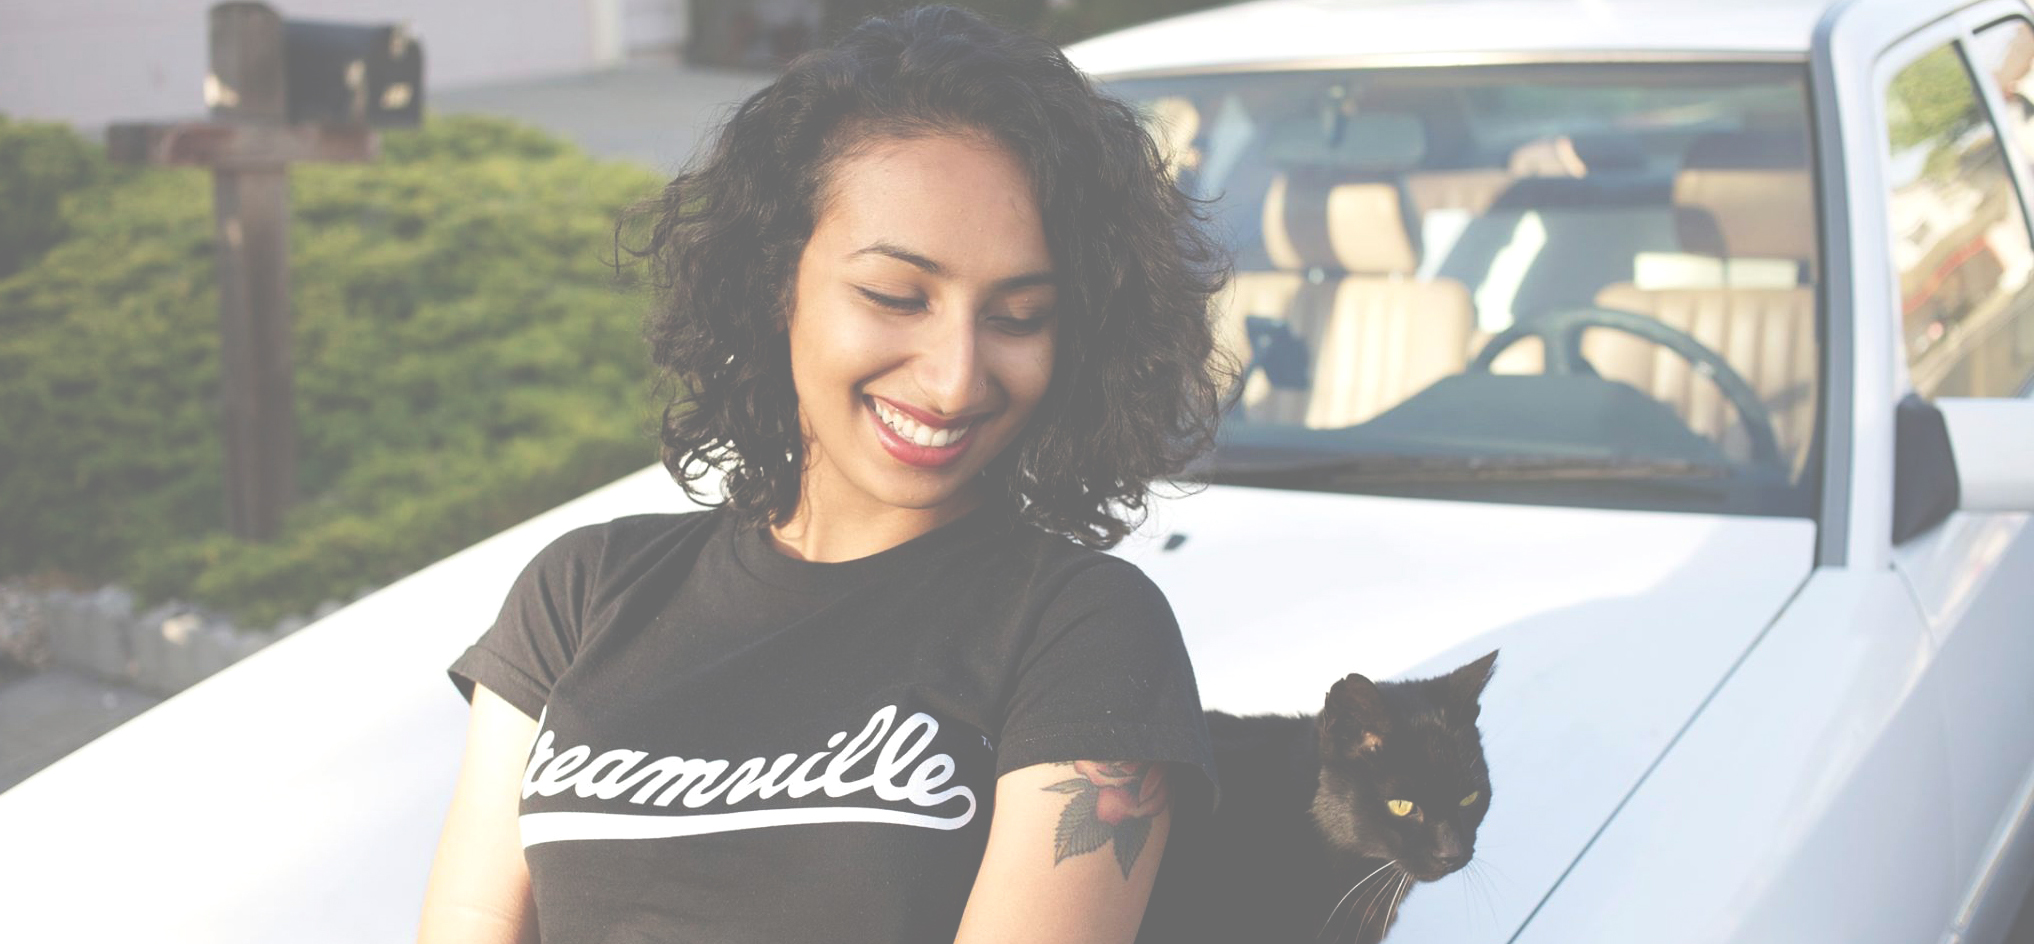
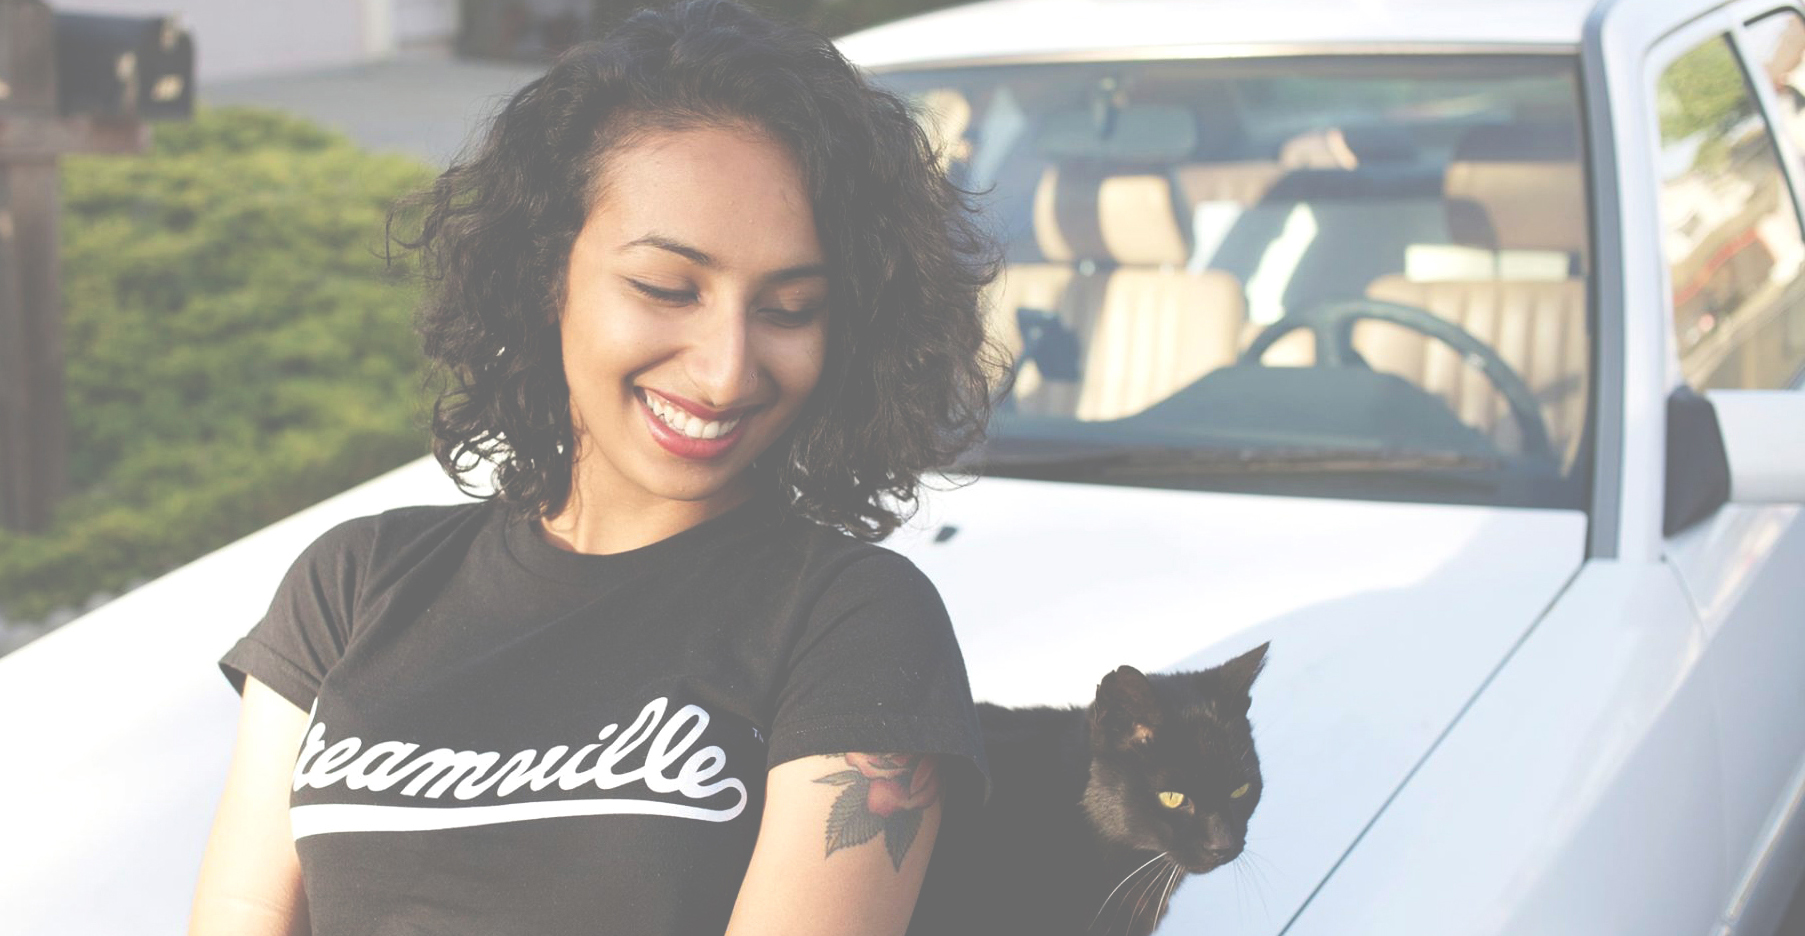
Changed front-page layout, fixed mobile view

diff --git a/assets/css/style.css b/assets/css/style.css
@@ -43,14 +43,10 @@ h1 {
 .navigation {
   position: fixed;
   margin: 0 auto;
-  width: 100%;
+  width: 97%;
   height: 50px;
   text-align: center;
-  padding: 7px 0px;
   z-index: 5;
-  background-color: #fff;
-  border-bottom: 2px rgba(170, 170, 170, 0.12) solid;
-  border-right: 2px rgba(170, 170, 170, 0.12) solid;
 }
 
 .navigation a {
@@ -61,10 +57,12 @@ h1 {
   text-transform: uppercase;
   border-radius: 2px;
   padding: 3px 30px; 
-  background-color: #e52f26;
+  background-color: #e52f26; 
   display: inline-block;
   overflow: hidden;
+  margin-right: 5px;
 }
+
 
 
 .navigation a:hover {
@@ -109,14 +107,29 @@ h1 {
 
 
 #name {
-  width: 250px;
+  width: 100%;
   font-size: 40px;
+  float: left;
+  display: inline-block;
+  text-align: left;
   color: rgba(0, 0, 0, 0.65);
   font-family: 'Bangers', cursive;
-  float: left;
-  position: fixed;
-  top: 20px;
-  left: 90px;
+  position: relative;
+  margin: auto;
+  margin-bottom: 20px;
+  
+}
+
+#mobile-name {
+  width: 100%;
+  font-size: 40px;
+  display: inline-block;
+  color: rgba(0, 0, 0, 0.65);
+  text-align: center;
+  font-family: 'Bangers', cursive;
+  position: relative;
+  top: 30;
+  display: none;
 }
 
 
@@ -130,18 +143,76 @@ h1 {
 
 
 .front-page-header {
-  background-image: -webkit-linear-gradient(top, rgba(255,255,255,.6), rgba(255,255,255,.2)), url("images/website-photo.jpg");
+  background-image: -webkit-linear-gradient(top, rgba(255,255,255,.2), rgba(255,255,255,.2)), url("images/website-photo.jpg");
   background-position: center;
   background-repeat:  no-repeat;
-  position: relative;
+  position: fixed;
   margin: 0 auto;
-  background-size: 100%;
   width: 100%;
-  height: 680px;
+  height: 100%;
+}
+
+.intro-text {
+  width: 400px;
+  position: relative;
+  font-size: 25px;
+  line-height: 1.2;
+  top: 150;
+  left: 60%;
+  text-align: left;
+  margin-bottom: 30px;
+
+}
+
+.mobile-intro-text {
+  width: 97%;
+  position: relative;
+  margin: auto;
+  font-size: 27px;
+  top: 100;
+  line-height: 1.3;
+  text-align: center;
+  padding: 5px;
+  display: none;
+
+}
+ 
+.contact-button {
+  color: #fff;
+  font-family: 'PT Sans Narrow', 'sans-serif'; 
+  font-size: 18px;
+  width: 200px;
+  text-align: center;
+  border: 2px #fff solid;
+  border-radius: 5px;
+  padding: 10px 30px; 
+  margin: 0 auto;
+  margin-top: 30px;
+
+}
+
+.contact-button:hover, .mobile-contact-button:hover {
+  border-color:#000;
+  background-color: #000;
+  color: #fff;
+
+}
+
+.mobile-contact-button {
+  color: #000;
+  font-family: 'PT Sans Narrow', 'sans-serif'; 
+  font-size: 18px;
+  width: 200px;
+  text-align: center;
+  border: 2px #000 solid;
+  border-radius: 5px;
+  padding: 10px 30px; 
+  margin: 0 auto;
+  margin-top: 30px;
+
 }
 
 
- 
 .page-container {
   width: 97%;
   margin: 0 auto;
@@ -528,9 +599,38 @@ footer {
   }
 
   #name {
-    left: 0;
-    font-size: 35px;
+    display: none;
   }
+
+  #mobile-name {
+    display: inline-block;
+  }
+
+  .intro-text {
+    display: none;
+  }
+
+  .front-page-header {
+    display: none;
+  }
+
+  .mobile-intro-text {
+    display: inline-block;
+  }
+
+  .copyright {
+    display: none;
+  }
+
+  .navigation {
+    background-color: transparent;
+  }
+
+  .mobile-nav {
+    background-color: transparent;
+  }
+
+
 
 
 

diff --git a/index.html b/index.html
@@ -17,9 +17,21 @@
 
  
 <body>
-  <div class="page-container"> <div class="front">
-  <div class="navigation">
-    <div id="name">Manisha Sharma</div>
+
+  <div id="mobile-name">Manisha Sharma</div>
+
+  <div class="mobile-nav">
+      <a href="index.html"><div class="nav-selectedtab">Home</div></a>
+      <a href="work.html">Projects</a>
+      <div id="music-page-hide"><a href="music.html">Music</a></div>
+      <a href="about.html">About</a>   
+  </div>
+  
+
+  <div class="front-page-header"> 
+
+    <div class="navigation">
+    
     <div id="right-nav">
       <a href="index.html"><div class="nav-selectedtab">Home</div></a>
       <a href="work.html">Projects</a>
@@ -28,30 +40,28 @@
     </div>
   </div>
 
-  <div class="mobile-nav">
-      <a href="index.html"><div class="nav-selectedtab">Home</div></a>
-      <a href="work.html">Projects</a>
-      <div id="music-page-hide"><a href="music.html">Music</a></div>
-      <a href="about.html">About</a>   
-  </div>
+  
 
-  <div class="front-page-header">
-   </div>
+
+
+    <div class="intro-text"> 
+
+      <div id="name">Manisha Sharma</div>
+      Hi, I'm Manisha. I'm interested developing online education platforms and bringing computer science and technology into urban areas. 
+
+    <a href="mailto:manishafiji5194@gmail.com" target="_blank" alt="Email me!"><div class="contact-button">Contact me</div></a>
+  </div>
+</div>
+
+   <div class="mobile-intro-text"> 
+
+      Hi, I'm Manisha. I'm interested developing online education platforms and bringing computer science and technology into urban areas. Currently, I'm seeking opportunties in web design/development and teaching.
+
+    <a href="mailto:manishafiji5194@gmail.com" target="_blank" alt="Email me!"><div class="mobile-contact-button">Contact me</div></a>
+  </div>
 
  
 
-
-
-
-<footer>
-
-
-
- <div class="copyright"> © 2014 Manisha Sharma</div>
-
-</footer>
-
-  </div>
 
  
 

diff --git a/work.html b/work.html
@@ -17,9 +17,11 @@
 
 <!--- Top Nav --> 
 <body>
+
+  <div id="mobile-name">Manisha Sharma</div>
+  
   <div class="page-container">
   <div class="navigation">
-    <div id="name">Manisha Sharma</div>
     <div id="right-nav">
       <a href="index.html"><div class="nav-selectedtab">Home</div></a>
       <a href="work.html">Projects</a>

diff --git a/about.html b/about.html
@@ -17,9 +17,10 @@
 
  
 <body>
+
+  <div id="mobile-name">Manisha Sharma</div>
   <div class="page-container">
   <div class="navigation">
-    <div id="name">Manisha Sharma</div>
     <div id="right-nav">
       <a href="index.html"><div class="nav-selectedtab">Home</div></a>
       <a href="work.html">Projects</a>
